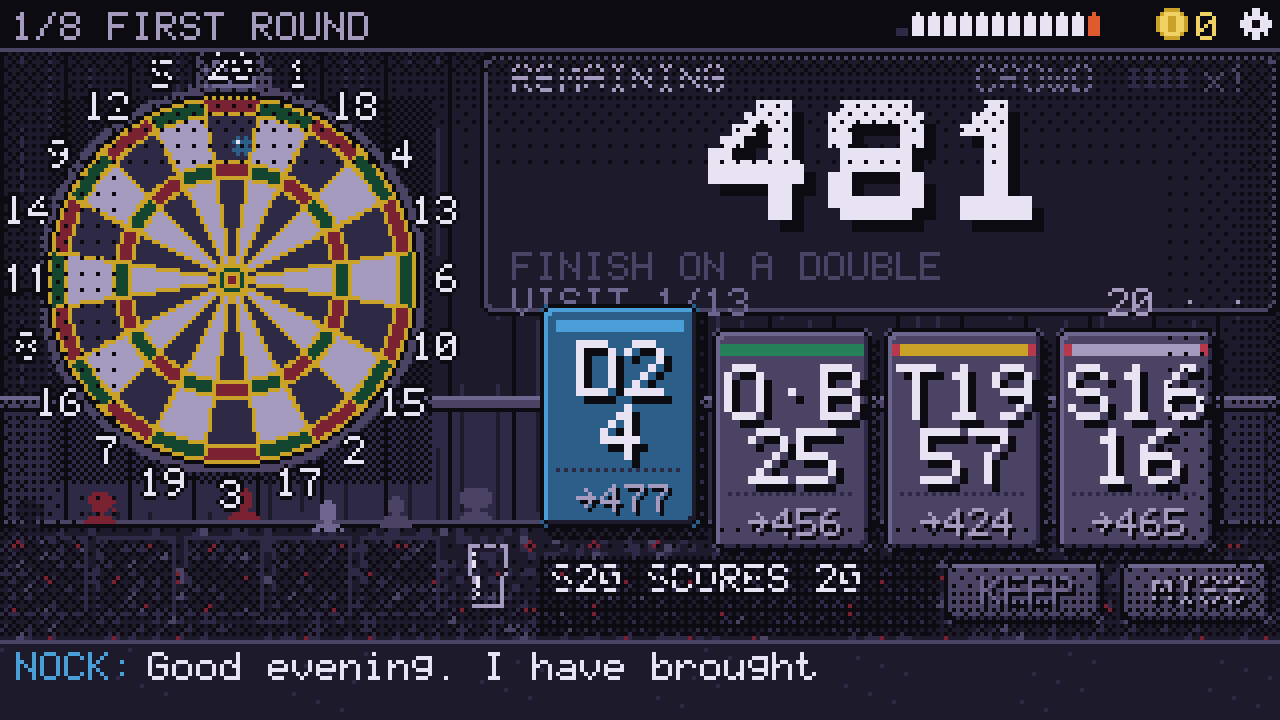
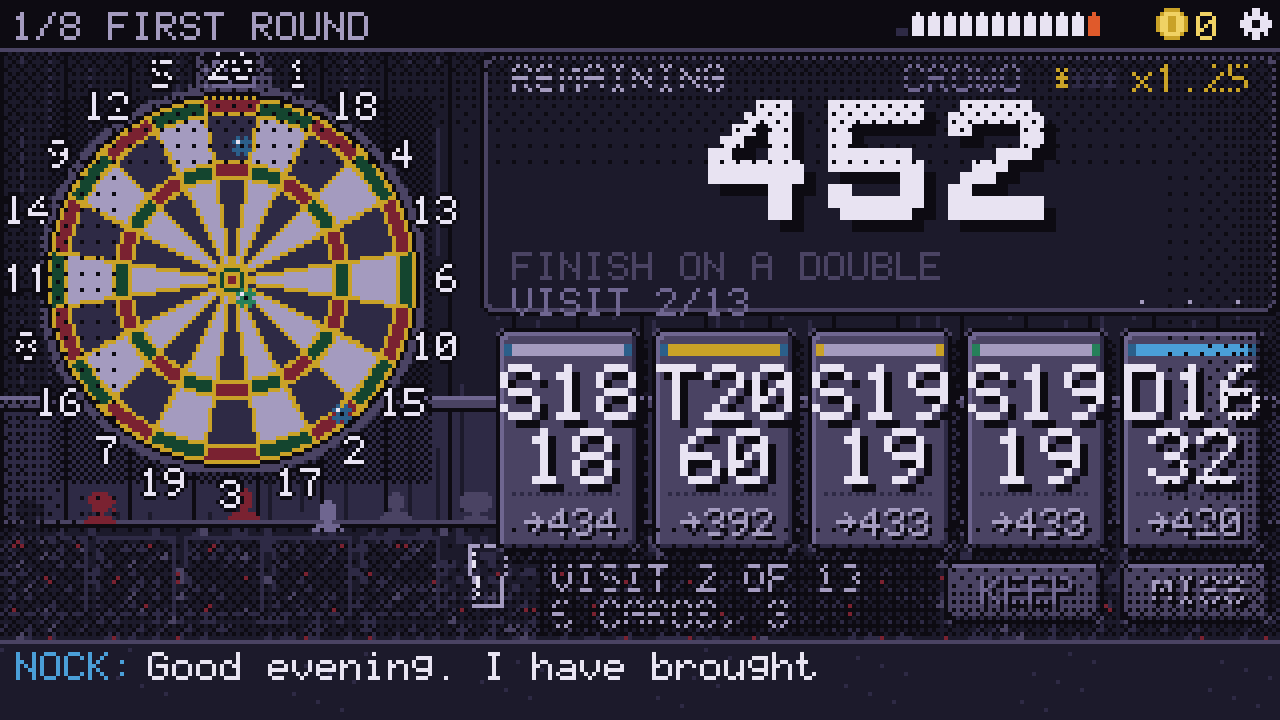
Unstick the hand after a mid-visit flick; hurry the theatre; show bests
The per-visit rework removed the per-dart HAND_DEALT event, which was the
only thing that unlocked the hand after a throw. A visit-ending dart still
got a fresh deal and an unlock; a mid-visit dart left hand.locked true
for good, so the first flick of every visit was also the last. The
screenshot harness never caught it because its multi-throw scenarios used
the keyboard. handBack() now unlocks after every throw and miss sequence
(the tutorial keeps ownership of the lock), and a 'flick3' scenario
flicks a whole visit with the pointer and fails if the hand ever sticks.

Pace: a tap or key during a result's readout now hurries it. Coroutines
gain hurry(), which zeroes timed waits but never condition waits, so the
dart still lands and the score still counts before the next card is live.

Meta: lifetime bestVisit and bestPot join the save. The results screen
marks rows that beat a record and says NEW BEST under the panel; when
nothing was beaten it names the next oche to unlock and how. The title
carries the same line under its stats. The portrait results header now
wraps instead of running off the panel.

Claude-Session: https://claude.ai/code/session_017gNQ4JxKjNpBGzruZyUfq3

diff --git a/src/ui/screens/results.ts b/src/ui/screens/results.ts
@@ -3,6 +3,7 @@
  * win screen (the game says plainly that it is finished, §9.3).
  */
 import { P } from '../../art/palette';
+import { OCHES } from '../../content/oches';
 import { seedToString } from '../../core/rng';
 import { legName } from '../../core/state';
 import type { NightState } from '../../core/types';
@@ -23,6 +24,8 @@ export class ResultsScreen implements Scene {
   w = 320;
   h = 180;
   private confettiTimer = 0;
+  /** Lifetime records this night beat, by results-table label. */
+  private newBests = new Set<string>();
 
   constructor(
     public app: App,
@@ -48,11 +51,22 @@ export class ResultsScreen implements Scene {
     }
     const n = this.night;
     const st = this.app.save.data.stats;
+    // Records first, while the old ones are still there to compare against.
+    // Only a night that is not the first counts as beating something.
+    this.newBests.clear();
+    if (st.nightsPlayed > 0) {
+      if (n.stats.bestCheckout > st.bestCheckout) this.newBests.add('BEST CHECKOUT');
+      if (n.stats.bestVisit > st.bestVisit) this.newBests.add('BEST VISIT');
+      if (n.stats.potEarned > st.bestPot) this.newBests.add('POT EARNED');
+      if (n.legs.length > st.bestLeg) this.newBests.add('LEGS WON');
+    }
     st.nightsPlayed++;
     if (this.won) st.nightsWon++;
     st.legsWon += n.stats.legsWon;
     st.oneEighties += n.stats.oneEighties;
     st.bestCheckout = Math.max(st.bestCheckout, n.stats.bestCheckout);
+    st.bestVisit = Math.max(st.bestVisit, n.stats.bestVisit);
+    st.bestPot = Math.max(st.bestPot, n.stats.potEarned);
     st.bestLeg = Math.max(st.bestLeg, n.legs.length);
     st.nineDarters += n.stats.nineDarters;
     this.app.save.persist();
@@ -180,8 +194,10 @@ export class ResultsScreen implements Scene {
     const cx = px + Math.floor(pw / 2);
     let y = py + 12;
     const blurb = (head: string, headColor: number, sub: string) => {
-      r.text(head, cx, y, { color: headColor, align: 'center' });
-      y += 9;
+      for (const line of r.wrap(head, pw - 12)) {
+        r.text(line, cx, y, { color: headColor, align: 'center' });
+        y += 9;
+      }
       for (const line of r.wrap(sub, pw - 12)) {
         r.text(line, cx, y, { color: P.MIST, align: 'center' });
         y += 8;
@@ -207,11 +223,14 @@ export class ResultsScreen implements Scene {
       ['CARDS BOUGHT', String(n.stats.cardsBought)],
       ['POT EARNED', String(n.stats.potEarned)],
     ];
+    const blink = Math.floor(this.time * 3) % 2 === 0;
     rows.forEach((row, i) => {
       const col = this.portrait ? 0 : i % 2;
       const rowI = this.portrait ? i : Math.floor(i / 2);
       const x = px + 8 + col * (colW + 8);
-      drawRow(r, x, y + rowI * 9, colW, row[0], row[1], i === 1 && n.stats.oneEighties > 0 ? P.EMBER : P.BRASS_LIT);
+      const best = this.newBests.has(row[0]);
+      const label = row[0];
+      drawRow(r, x, y + rowI * 9, colW, label, row[1], best && blink ? P.CHALK : i === 1 && n.stats.oneEighties > 0 ? P.EMBER : P.BRASS_LIT);
     });
     y += (this.portrait ? rows.length : rows.length / 2) * 9 + 4;
     drawRule(r, px + 8, y, pw - 16);
@@ -220,6 +239,20 @@ export class ResultsScreen implements Scene {
     if (n.achievements.length) {
       y += 9;
       r.text(`OCHE UNLOCKED: ${n.achievements.map((a) => a.toUpperCase()).join(', ')}`, cx, y, { color: P.SKY_LIT, align: 'center' });
+    }
+    // Under the panel: what this night beat, or what the next one could unlock.
+    const under = py + ph + 4;
+    const strip = (lines: number) => r.dither(px, under - 2, pw, lines * 8 + 3, P.INK, 12);
+    if (this.newBests.size) {
+      strip(1);
+      r.text(`NEW BEST · ${[...this.newBests].join(' · ')}`, cx, under, { color: blink ? P.BRASS_LIT : P.BRASS, align: 'center' });
+    } else if (!n.achievements.length) {
+      const next = OCHES.find((o) => !this.app.save.isUnlocked(o.id));
+      if (next) {
+        strip(2);
+        r.text(`NEXT OCHE · ${next.name.toUpperCase()}`, cx, under, { color: P.MIST, align: 'center' });
+        r.text(next.unlock.toUpperCase(), cx, under + 8, { color: P.PEWTER, align: 'center' });
+      }
     }
     this.buttons.draw(r, this.keyboardFocus);
     for (const p of this.particles.list) r.sprite(p.sprite, Math.round(p.x), Math.round(p.y), p.frame);

diff --git a/src/ui/screens/game.ts b/src/ui/screens/game.ts
@@ -313,6 +313,7 @@ export class GameScreen implements Scene {
     this.pendingEvents = out.events.filter((e) => e.type !== 'THROW');
     this.co.run(this.missSequence(from), () => {
       this.busy = false;
+      this.handBack();
     });
   }
 
@@ -354,7 +355,28 @@ export class GameScreen implements Scene {
     this.pendingEvents = out.events.filter((e) => e.type !== 'THROW');
     this.co.run(this.throwSequence(out.result, from, v), () => {
       this.busy = false;
+      this.handBack();
     });
+  }
+
+  /** Fast-forward the current throw's theatre (never the dart or the score count). */
+  private hurry(): void {
+    if (this.hooks.ownsFlow) return;
+    this.co.hurry();
+    this.bar.skip();
+    this.app.input.touchActivity();
+  }
+
+  /**
+   * Give the hand back after a throw sequence. A visit-ending throw already
+   * unlocked it when the next hand was dealt; a mid-visit throw has no such
+   * event, so this is the only place the lock comes off. The tutorial owns
+   * the lock while it runs the flow.
+   */
+  private handBack(): void {
+    if (this.hooks.ownsFlow) return;
+    if (this.leg.status !== 'ACTIVE' || this.night.phase !== 'LEG') return;
+    this.hand.locked = false;
   }
 
   private *throwSequence(result: ThrowResult, from: { x: number; y: number }, v: { vx: number; vy: number }): Routine {
@@ -768,6 +790,12 @@ export class GameScreen implements Scene {
       this.bar.skip();
       return;
     }
+    // Any tap while the result plays out hurries it along: the player has
+    // seen the number and wants the next card.
+    if (this.busy) {
+      this.hurry();
+      return;
+    }
     if (this.hand.onDown(p)) return;
     // tap the board with a selected card → throw (tap fallback)
     if (this.hand.selected && this.hand.tapToThrow && inRect(p.x, p.y, { x: this.layout.board.x - 10, y: this.layout.board.y - 10, w: this.layout.board.w + 20, h: this.layout.board.h + 20 })) {
@@ -807,6 +835,10 @@ export class GameScreen implements Scene {
     }
     if (key === 'Escape') {
       this.openPause();
+      return;
+    }
+    if (this.busy && (key === 'Enter' || key === ' ' || key === 'ArrowUp' || (key >= '1' && key <= '4'))) {
+      this.hurry();
       return;
     }
     if (key === 'ArrowLeft') this.hand.moveSelection(-1);

diff --git a/tools/screenshot.ts b/tools/screenshot.ts
@@ -183,6 +183,30 @@ async function main(): Promise<void> {
     await d.shot('02_flick_landed');
   });
 
+  // Regression: the pointer must be able to throw a whole visit. The lock that
+  // once stuck after the first flick was invisible to keyboard-driven scenarios.
+  await run('flick3', land, async (d) => {
+    await d.evalApp("app.startNight(777, 'local')");
+    await d.wait(900);
+    const slot = async () => (await d.evalApp("(function(){const l=app.scenes.current.layout; const n=app.night.legs[0].hand.length; const gap=n>=4?4:8; const total=n*40+(n-1)*gap; const start=l.hand.x+Math.floor((l.hand.w-total)/2); return {x:start+20,y:l.hand.y+28};})()")) as { x: number; y: number };
+    const settled = async () => {
+      for (let i = 0; i < 200; i++) {
+        const st = (await d.evalApp('(function(){const s=app.scenes.current; return {busy:s.busy, locked:s.hand.locked};})()')) as { busy: boolean; locked: boolean };
+        if (!st.busy && !st.locked) return;
+        await d.wait(25);
+      }
+      throw new Error('hand never unlocked after a flick');
+    };
+    for (let i = 0; i < 3; i++) {
+      const p = await slot();
+      await d.flick(p.x, p.y, -10, -70);
+      await settled();
+    }
+    const visits = (await d.evalApp('app.night.legs[0].visits.length')) as number;
+    if (visits !== 2) throw new Error(`three flicks should end the first visit; visits = ${visits}`);
+    await d.shot('01_second_visit');
+  });
+
   await run('pocketdemo', land, async (d) => {
     await d.evalApp("app.startNight(31415, 'local')");
     await d.wait(900);

diff --git a/src/ui/screens/title.ts b/src/ui/screens/title.ts
@@ -362,9 +362,13 @@ export class TitleScreen implements Scene {
     if (st.nightsPlayed > 0) {
       const sx = this.portrait ? 8 : 4;
       const sy = this.portrait ? 272 : 160 - 12;
-      const txt = `NIGHTS ${st.nightsWon}/${st.nightsPlayed} · 180s ${st.oneEighties} · BEST LEG ${st.bestLeg}`;
-      if (!this.portrait) r.text(txt, sx, sy, { color: P.STONE });
-      else r.text(txt, sx, sy, { color: P.STONE });
+      const txt = `NIGHTS ${st.nightsWon}/${st.nightsPlayed} · BEST LEG ${st.bestLeg} · BEST POT ${st.bestPot} · 180s ${st.oneEighties}`;
+      r.text(txt, sx, sy, { color: P.STONE });
+      // The next thing to chase, so a run always has a reason beyond the run.
+      const next = OCHES.find((o) => !this.app.save.isUnlocked(o.id));
+      if (next && this.overlay === 'none') {
+        r.text(`NEXT OCHE · ${next.name.toUpperCase()} · ${next.unlock.toUpperCase()}`, sx, sy + 8, { color: P.STONE });
+      }
     }
     r.text('v1.0', this.w - 3, 2, { color: P.STONE, align: 'right' });
     if (!this.app.save.data.stats.tutorialDone && this.overlay === 'none') {

diff --git a/src/ui/tween.ts b/src/ui/tween.ts
@@ -118,6 +118,16 @@ export class Coroutines {
     return this.list.length > 0;
   }
 
+  /**
+   * Skip every timed wait in flight. Condition waits (a dart still flying, a
+   * score still counting) are left alone, so the theatre can be hurried but
+   * never torn: a tap during the readout gets you to the next decision, not
+   * past the result.
+   */
+  hurry(): void {
+    for (const r of this.list) if (!r.done && !r.until) r.wait = 0;
+  }
+
   clear(): void {
     this.list = [];
   }

diff --git a/src/ui/save.ts b/src/ui/save.ts
@@ -26,6 +26,10 @@ export interface LifetimeStats {
   bestLeg: number; // furthest leg index reached (0..7) + 1
   nineDarters: number;
   tutorialDone: boolean;
+  /** Highest single-visit total. */
+  bestVisit: number;
+  /** Most Pot earned in one night. */
+  bestPot: number;
 }
 
 export interface SaveData {
@@ -65,6 +69,8 @@ function defaults(): SaveData {
       bestLeg: 0,
       nineDarters: 0,
       tutorialDone: false,
+      bestVisit: 0,
+      bestPot: 0,
     },
   };
 }
